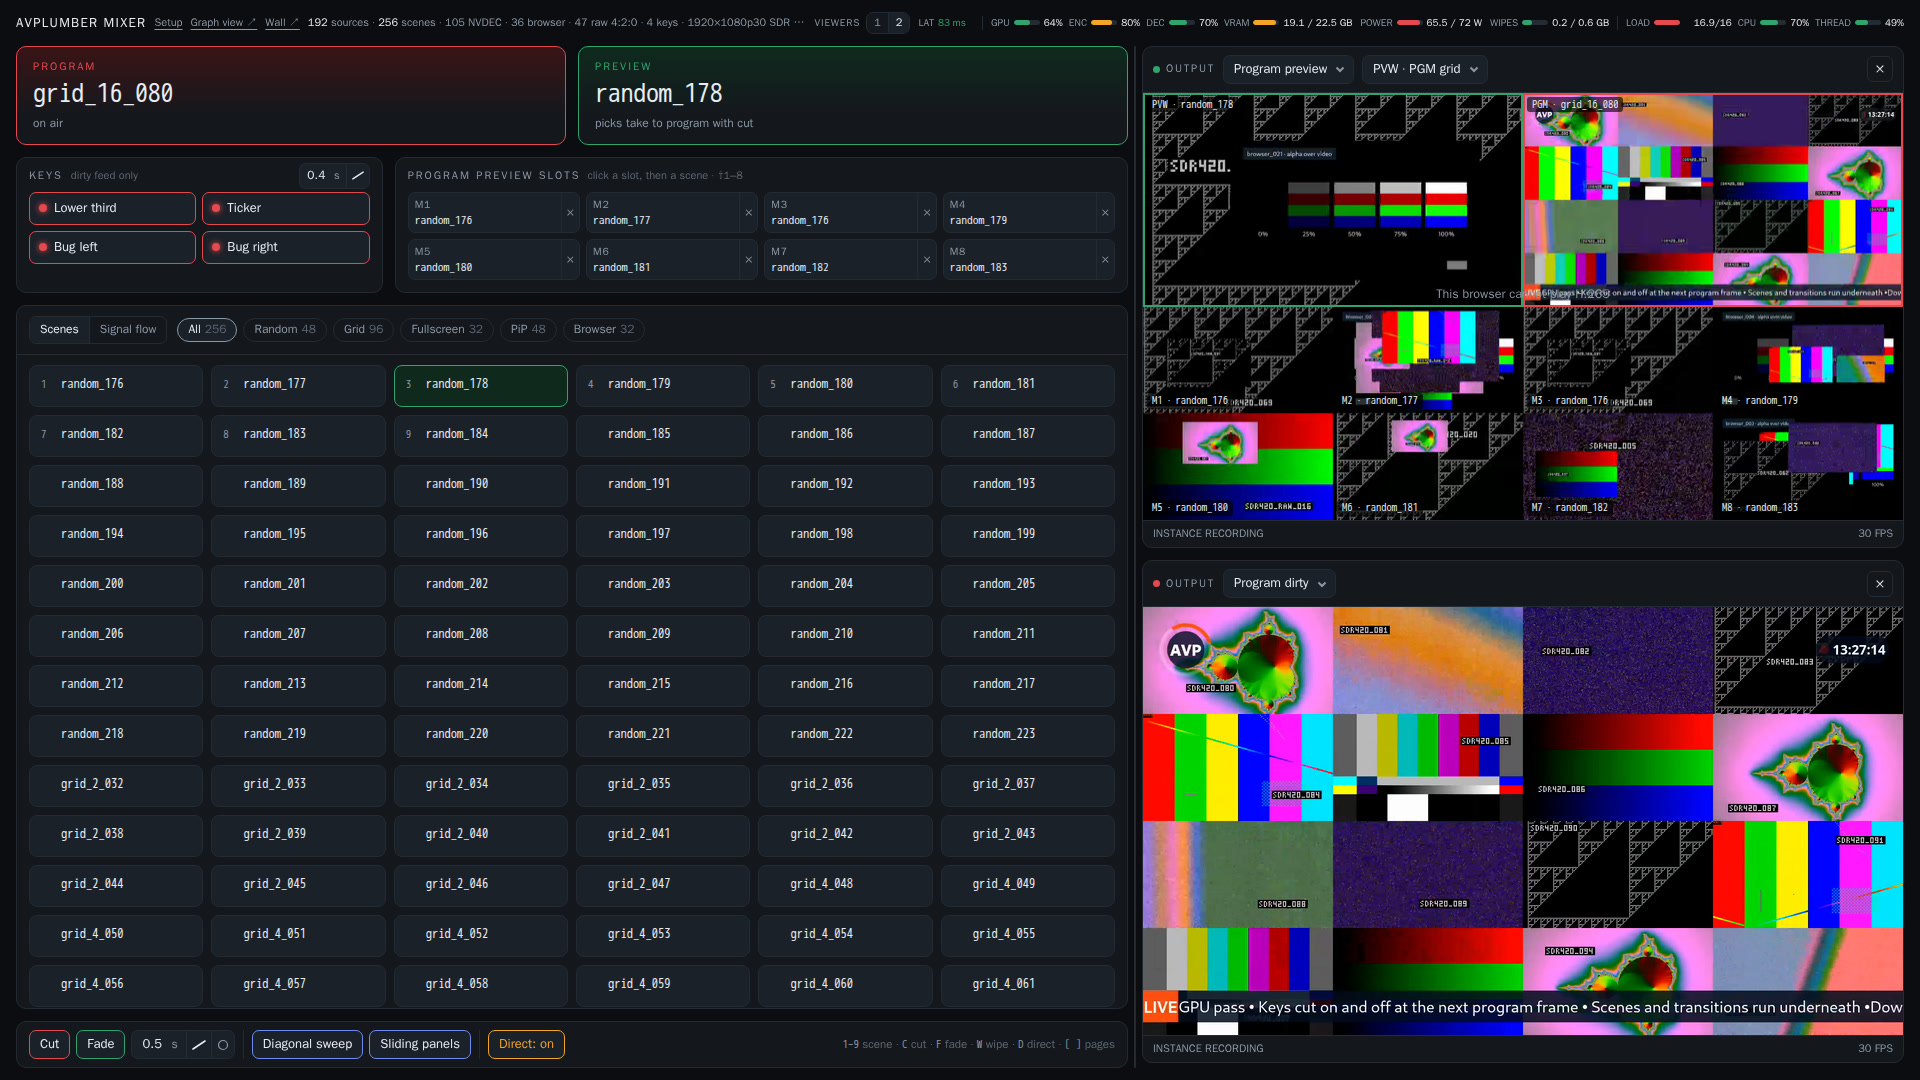
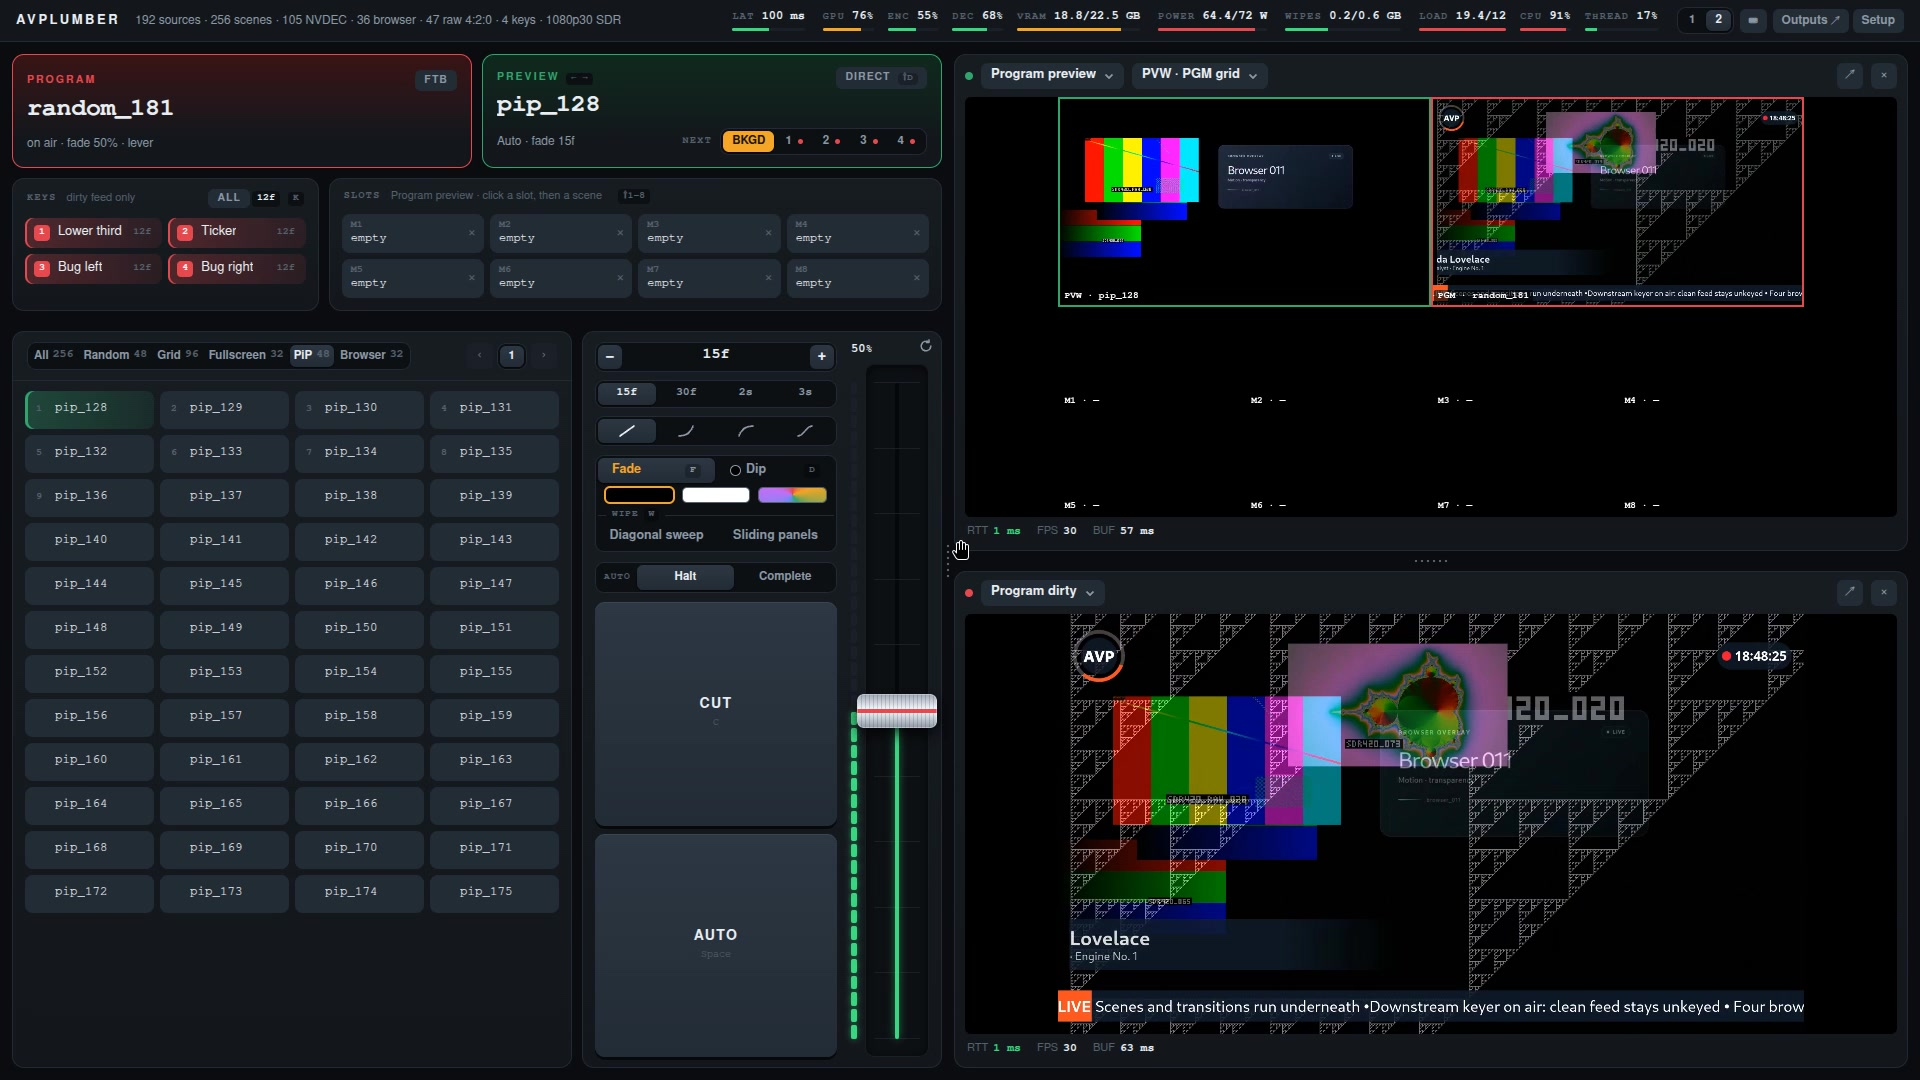
Refresh 192-input demo with actual UI and T-bar screen recording

diff --git a/demos/mixer/docs/index.html b/demos/mixer/docs/index.html
@@ -3,10 +3,10 @@
 <head>
   <meta charset="utf-8">
   <meta name="viewport" content="width=device-width,initial-scale=1">
-  <meta name="description" content="192 independent inputs. 256 scenes. 24 outputs. Watch the AVPlumber GPU mixer on one NVIDIA L4: two live viewers, direct cuts and four downstream graphics.">
+  <meta name="description" content="192 independent inputs. 256 scenes. 24 outputs. Watch the AVPlumber GPU mixer on one NVIDIA L4: two live viewers, direct cuts, manual T-bar fades and four downstream graphics.">
   <meta name="theme-color" content="#0a0e12">
   <meta property="og:title" content="192 inputs. One live canvas. · AVPlumber">
-  <meta property="og:description" content="The real mixer interface. Two viewers, direct cuts and downstream graphics, captured from a 192-input NVIDIA L4 show.">
+  <meta property="og:description" content="The real mixer interface. Two viewers, manual T-bar fades and downstream graphics, captured from a 192-input NVIDIA L4 show.">
   <meta property="og:image" content="https://amagimedia.github.io/avplumber/demos/mixer/docs/mixer-demo-poster.jpg">
   <title>192 inputs. One live canvas. · AVPlumber mixer</title>
   <link rel="stylesheet" href="demo.css">
@@ -25,37 +25,37 @@
       <div class="hero-aside"><p>Video, browser pages and raw feeds.<br>Preview it. Cut it. Put graphics on air.<br>All on a single NVIDIA L4.</p><div class="spec"><span>1920 × 1080</span><span>30 FPS</span><span>SDR</span></div></div>
     </section>
     <section class="demo" id="demo" aria-labelledby="demo-title">
-      <div class="demo-top"><h2 id="demo-title"><span class="signal red"></span> THE ACTUAL CONTROL SURFACE</h2><span class="capture-label">INSTANCE CAPTURE · 30 FPS <span class="slash">/</span> 12 OCT 2026</span></div>
-      <div class="screen"><video id="reel" controls muted loop playsinline preload="metadata" poster="mixer-demo-poster.jpg" aria-label="Ten-second mixer demo: two viewers, direct cuts through varied scenes and all four downstream keys enabled" aria-describedby="recording-note"><source src="https://github.com/amagimedia/avplumber/releases/download/mixer-demo-media-2026-10/mixer-192-input-demo-1080p30.mp4" type="video/mp4"><a href="https://github.com/amagimedia/avplumber/releases/download/mixer-demo-media-2026-10/mixer-192-input-demo-1080p30.mp4">Download the mixer demo MP4</a>.</video></div>
-      <div class="demo-bottom"><div class="feed-labels"><span><i class="pvw"></i> PREVIEW + PROGRAM</span><span><i class="pgm"></i> DIRTY PROGRAM + 4 DSKs</span></div><button id="replay" type="button">Replay 10s <span aria-hidden="true">↻</span></button></div>
+      <div class="demo-top"><h2 id="demo-title"><span class="signal red"></span> THE ACTUAL CONTROL SURFACE</h2><span class="capture-label">INSTANCE CAPTURE · 30 FPS <span class="slash">/</span> 28 OCT 2026</span></div>
+      <div class="screen"><video id="reel" controls muted loop playsinline preload="metadata" poster="mixer-demo-poster.jpg" aria-label="Twenty-second mixer demo: two viewers, actual manual fades with a visible T-bar, a halfway hold, return stroke and all four downstream keys enabled" aria-describedby="recording-note"><source src="https://github.com/amagimedia/avplumber/releases/download/mixer-demo-media-2026-10/mixer-192-input-ui-tbar-20261028-1080p30.mp4" type="video/mp4"><a href="https://github.com/amagimedia/avplumber/releases/download/mixer-demo-media-2026-10/mixer-192-input-ui-tbar-20261028-1080p30.mp4">Download the mixer demo MP4</a>.</video></div>
+      <div class="demo-bottom"><div class="feed-labels"><span><i class="pvw"></i> PREVIEW + PROGRAM</span><span><i class="pgm"></i> DIRTY PROGRAM + 4 DSKs</span></div><button id="replay" type="button">Replay 20s <span aria-hidden="true">↻</span></button></div>
     </section>
-    <p class="recording-note" id="recording-note">Recorded directly on the running instance before Internet transport, then replayed in the real UI with the captured state and cuts. Two outputs, four keys and a continuous 30 fps ticker. <a href="https://github.com/amagimedia/avplumber/releases/download/mixer-demo-media-2026-10/mixer-192-input-demo-1080p30.mp4">Download UI demo ↓</a> · <a href="https://github.com/amagimedia/avplumber/releases/download/mixer-demo-media-2026-10/mixer-pgm-instance-1080p30.mp4">Original full-size Program ↓</a></p>
+    <p class="recording-note" id="recording-note">The actual mixer UI, recorded live at 30 fps: two WebRTC viewers, four keys and an upright T-bar. Watch the manual fade, halfway hold and return stroke. Pictures and controls were captured together from the browser display. <a href="https://github.com/amagimedia/avplumber/releases/download/mixer-demo-media-2026-10/mixer-192-input-ui-tbar-20261028-1080p30.mp4">Download UI recording ↓</a> · <a href="capture-20261028.json">Capture details ↗</a></p>
     <section class="scene-section" aria-labelledby="scene-heading">
-      <div class="section-label"><h2 id="scene-heading">A different scene. One cut.</h2><span>JUMP INTO THE RECORDING</span></div>
+      <div class="section-label"><h2 id="scene-heading">Cut it. Mix it. Hold it.</h2><span>JUMP INTO THE RECORDING</span></div>
       <div class="scene-strip">
-        <button class="scene" type="button" data-seek="1.4"><img src="scene-random.jpg" alt="Layered video composition with downstream graphics" width="480" height="270" loading="lazy"><span><b>Mixed composition</b><small>01.4s <i aria-hidden="true">↗</i></small></span></button>
-        <button class="scene" type="button" data-seek="2.8"><img src="scene-grid.jpg" alt="Sixty-four source tiles in the program with graphics over the grid" width="480" height="270" loading="lazy"><span><b>64-source grid</b><small>02.8s <i aria-hidden="true">↗</i></small></span></button>
-        <button class="scene" type="button" data-seek="4.3"><img src="scene-pip.jpg" alt="Picture-in-picture scene in the dirty program" width="480" height="270" loading="lazy"><span><b>Picture in picture</b><small>04.3s <i aria-hidden="true">↗</i></small></span></button>
-        <button class="scene" type="button" data-seek="5.7"><img src="scene-browser.jpg" alt="Browser overlay scene with lower third, ticker and corner bugs" width="480" height="270" loading="lazy"><span><b>Browser + video</b><small>05.7s <i aria-hidden="true">↗</i></small></span></button>
+        <button class="scene" type="button" data-seek="1.5"><img src="scene-random.jpg" alt="Live mixer UI: direct cut with two viewers and the upright T-bar" width="480" height="270" loading="lazy"><span><b>Direct cut</b><small>01.5s <i aria-hidden="true">↗</i></small></span></button>
+        <button class="scene" type="button" data-seek="5.5"><img src="scene-grid.jpg" alt="Live mixer UI: manual t-bar fade with two viewers and the upright T-bar" width="480" height="270" loading="lazy"><span><b>Manual T-bar fade</b><small>05.5s <i aria-hidden="true">↗</i></small></span></button>
+        <button class="scene" type="button" data-seek="7.0"><img src="scene-pip.jpg" alt="Live mixer UI: halfway hold with two viewers and the upright T-bar" width="480" height="270" loading="lazy"><span><b>Halfway hold</b><small>07.0s <i aria-hidden="true">↗</i></small></span></button>
+        <button class="scene" type="button" data-seek="14.5"><img src="scene-browser.jpg" alt="Live mixer UI: return stroke with two viewers and the upright T-bar" width="480" height="270" loading="lazy"><span><b>Return stroke</b><small>14.5s <i aria-hidden="true">↗</i></small></span></button>
       </div>
     </section>
     <section class="inside" id="inside" aria-labelledby="inside-title">
-      <div class="section-label"><h2 id="inside-title">Big show. Small footprint.</h2><a href="capture-20261012.json">Captured configuration ↗</a></div>
+      <div class="section-label"><h2 id="inside-title">Big show. Small footprint.</h2><a href="capture-20261028.json">Captured configuration ↗</a></div>
       <div class="numbers">
         <div><strong>192<span>IN</span></strong><p>Independent inputs<br><span>188 scene sources + 4 browser keys</span></p></div>
         <div><strong>256</strong><p>Scenes, ready to take<br><span>Grids, PiP, layers and full screen</span></p></div>
         <div><strong>24<span>OUT</span></strong><p>Encoded outputs<br><span>Program, clean feed and 22 AUX</span></p></div>
-        <div><strong>1<span>GPU</span></strong><p>NVIDIA L4<br><span>16 vCPUs · CUarray decode</span></p></div>
+        <div><strong>1<span>GPU</span></strong><p>NVIDIA L4<br><span>12 vCPUs · CUarray decode</span></p></div>
       </div>
       <div class="source-mix" role="img" aria-label="192 inputs: 105 NVDEC video decoders, 36 browser scene sources, 47 raw NV12 sources and 4 browser keys"><i class="decode"></i><i class="browser"></i><i class="raw"></i><i class="keys"></i></div>
       <ul class="source-legend"><li><i class="decode"></i><b>105</b> NVDEC video</li><li><i class="browser"></i><b>36</b> Browser pages</li><li><i class="raw"></i><b>47</b> Raw NV12</li><li><i class="keys"></i><b>4</b> Browser keys</li></ul>
-      <p class="scope">This is the recorded 1080p30 SDR configuration. Other formats, frame rates and source mixes have their own limits. <a href="https://github.com/amagimedia/avplumber/blob/develop/demos/mixer/docs/capacity.md">Measurements and workload details ↗</a></p>
+      <p class="scope">Captured from develop revision <a href="https://github.com/amagimedia/avplumber/commit/8251eee0536961d1b8bbe578805abbf53d2d3d44"><code>8251eee0</code></a>. This is a documentation recording on a shared host, not a new capacity benchmark; playback and capture details are in the capture report. Other formats, frame rates and source mixes have their own limits. <a href="https://github.com/amagimedia/avplumber/blob/develop/demos/mixer/docs/capacity.md">Measurements and workload details ↗</a></p>
     </section>
     <section class="workflow" aria-labelledby="workflow-title">
       <div class="section-label"><h2 id="workflow-title">Keep the next shot in sight.</h2><span>ONE INTERFACE, TWO VIEWS</span></div>
       <div class="workflow-grid">
         <article><span class="step green">01 / PREVIEW</span><h3>See the next take.</h3><p>Program and Preview share a monitor with eight scene slots. Browse 256 scenes without losing sight of what is on air.</p></article>
-        <article><span class="step orange">02 / CUT</span><h3>Go straight to Program.</h3><p>Direct mode takes a scene with one click. The recording moves through mixed layers, grids, PiP and browser overlays.</p></article>
+        <article><span class="step orange">02 / TRANSITION</span><h3>Control the mix by hand.</h3><p>Cut directly, or move the T-bar through a fade. Stop halfway, complete the take, then reverse the bar for the next scene. The recording shows the mixer’s actual output throughout.</p></article>
         <article><span class="step red-text">03 / ON AIR</span><h3>Keep graphics on top.</h3><p>The second viewer shows the dirty feed: lower third, ticker and two corner bugs. The separate clean feed omits those keys.</p></article>
       </div>
     </section>
